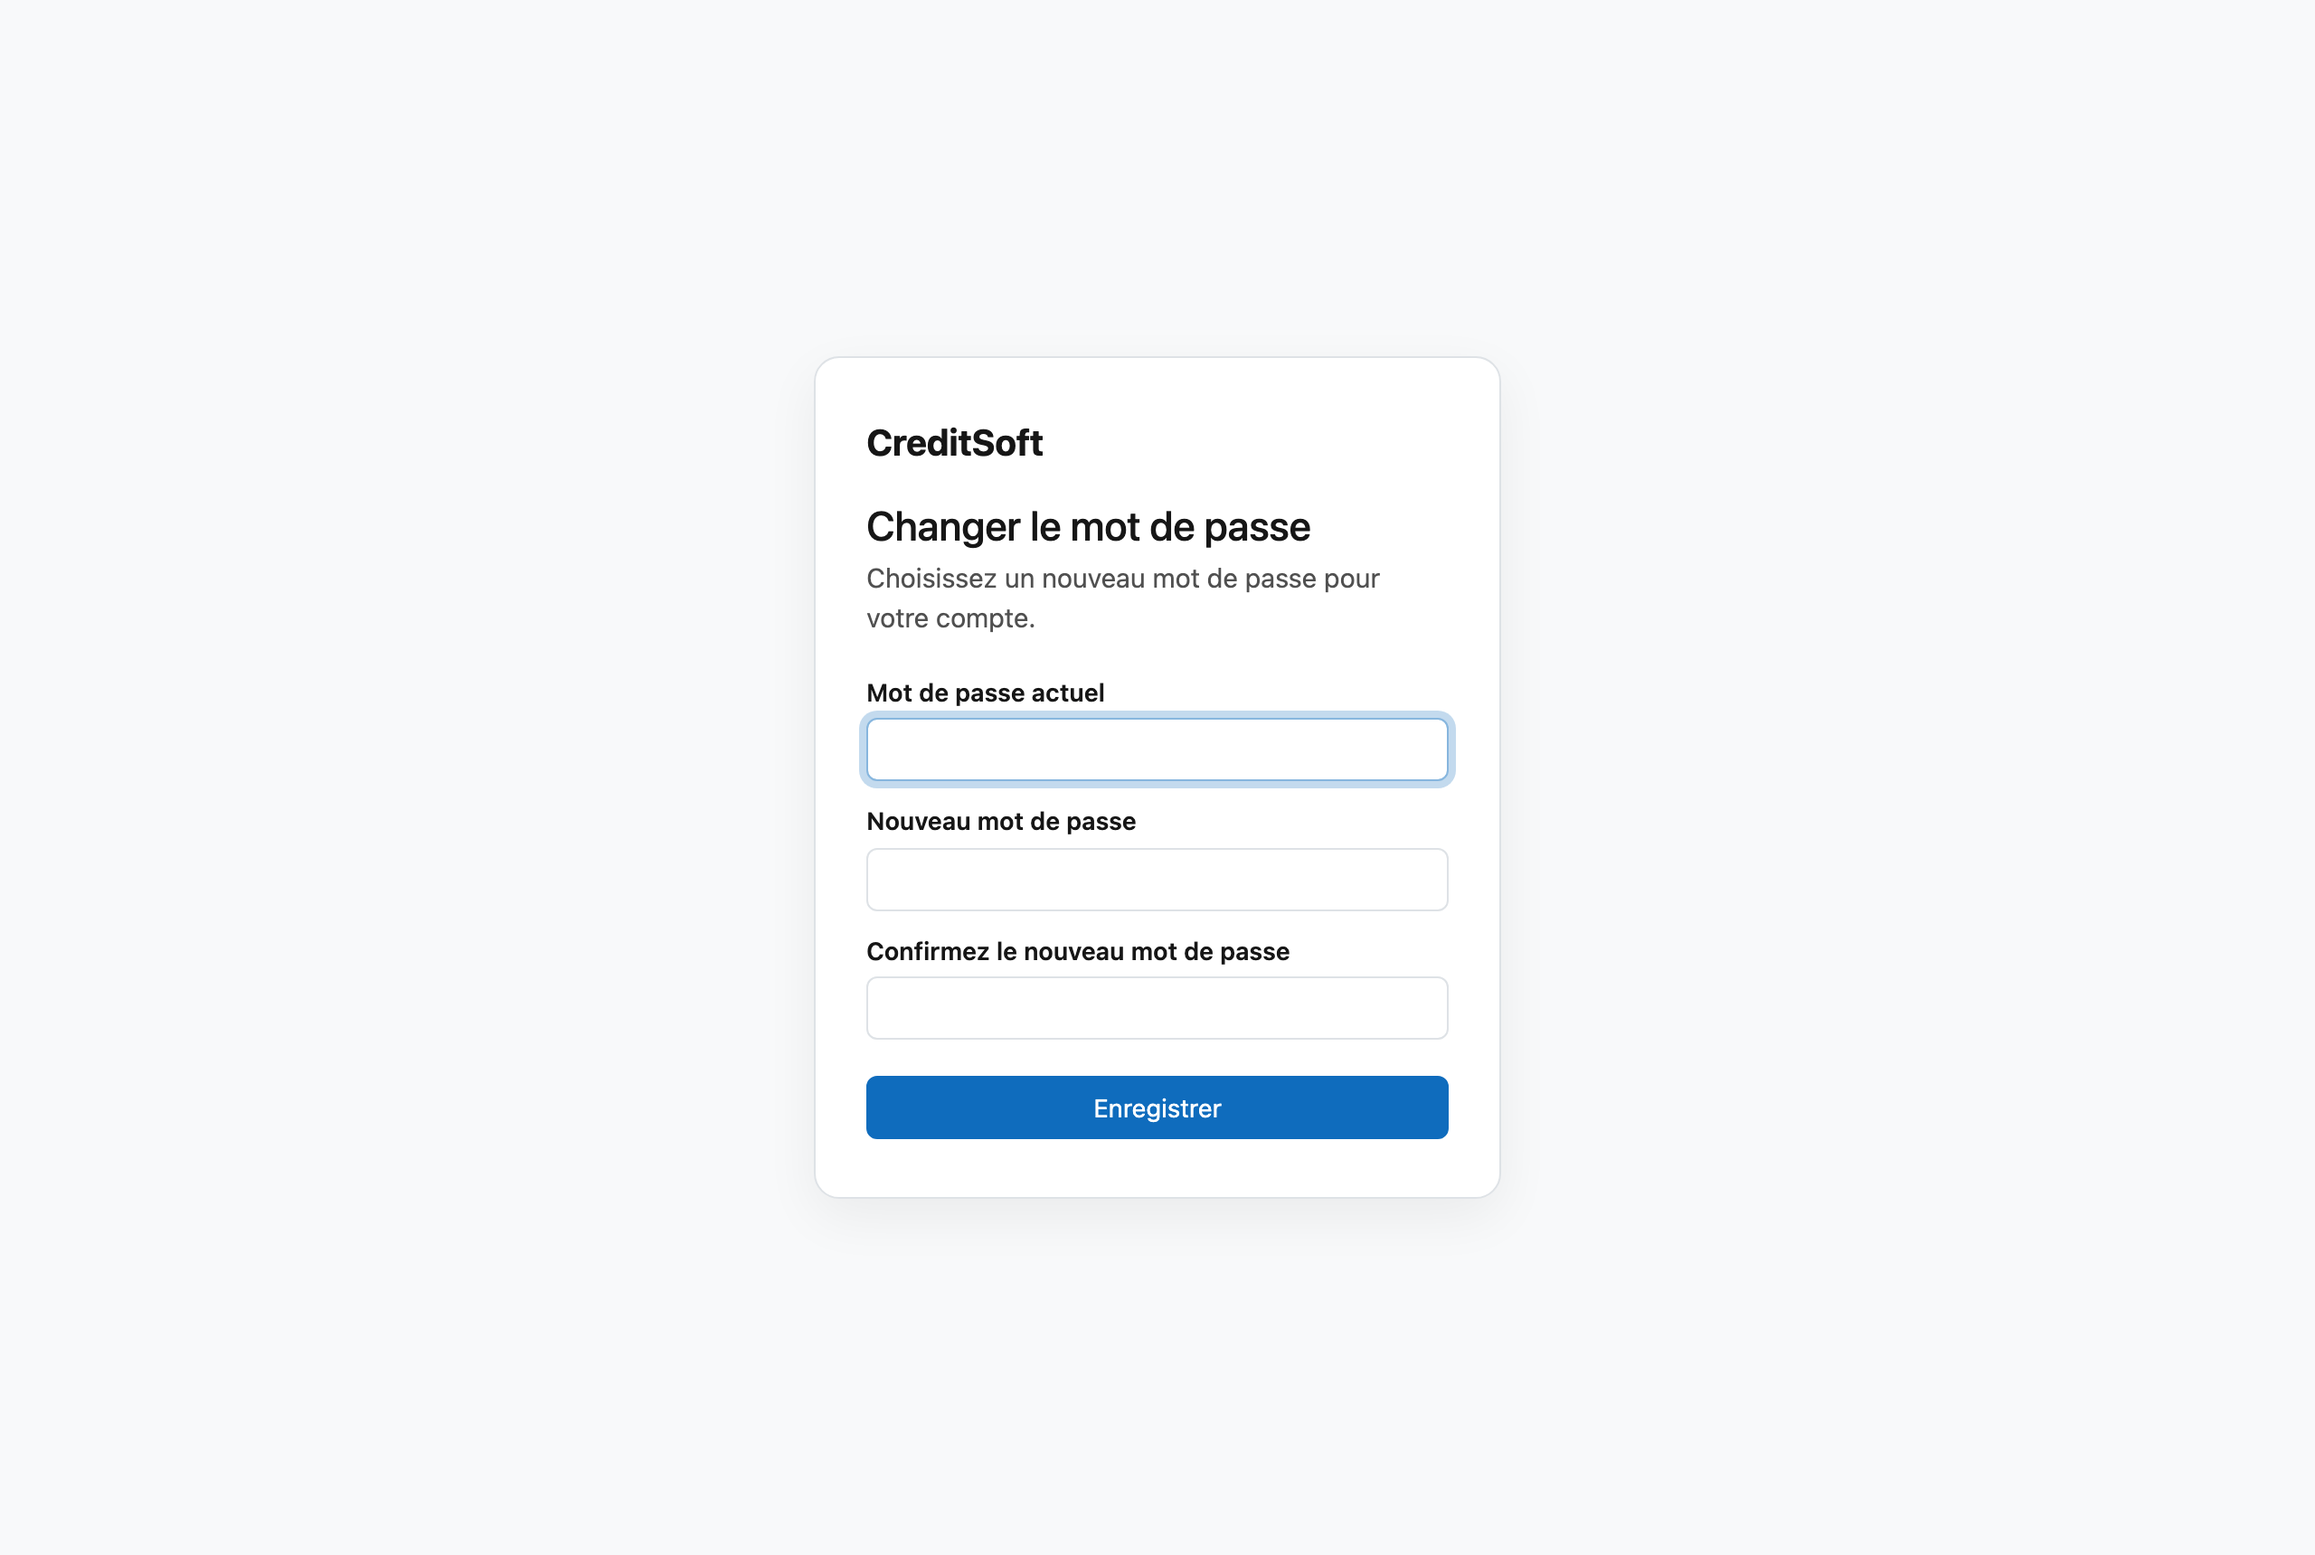
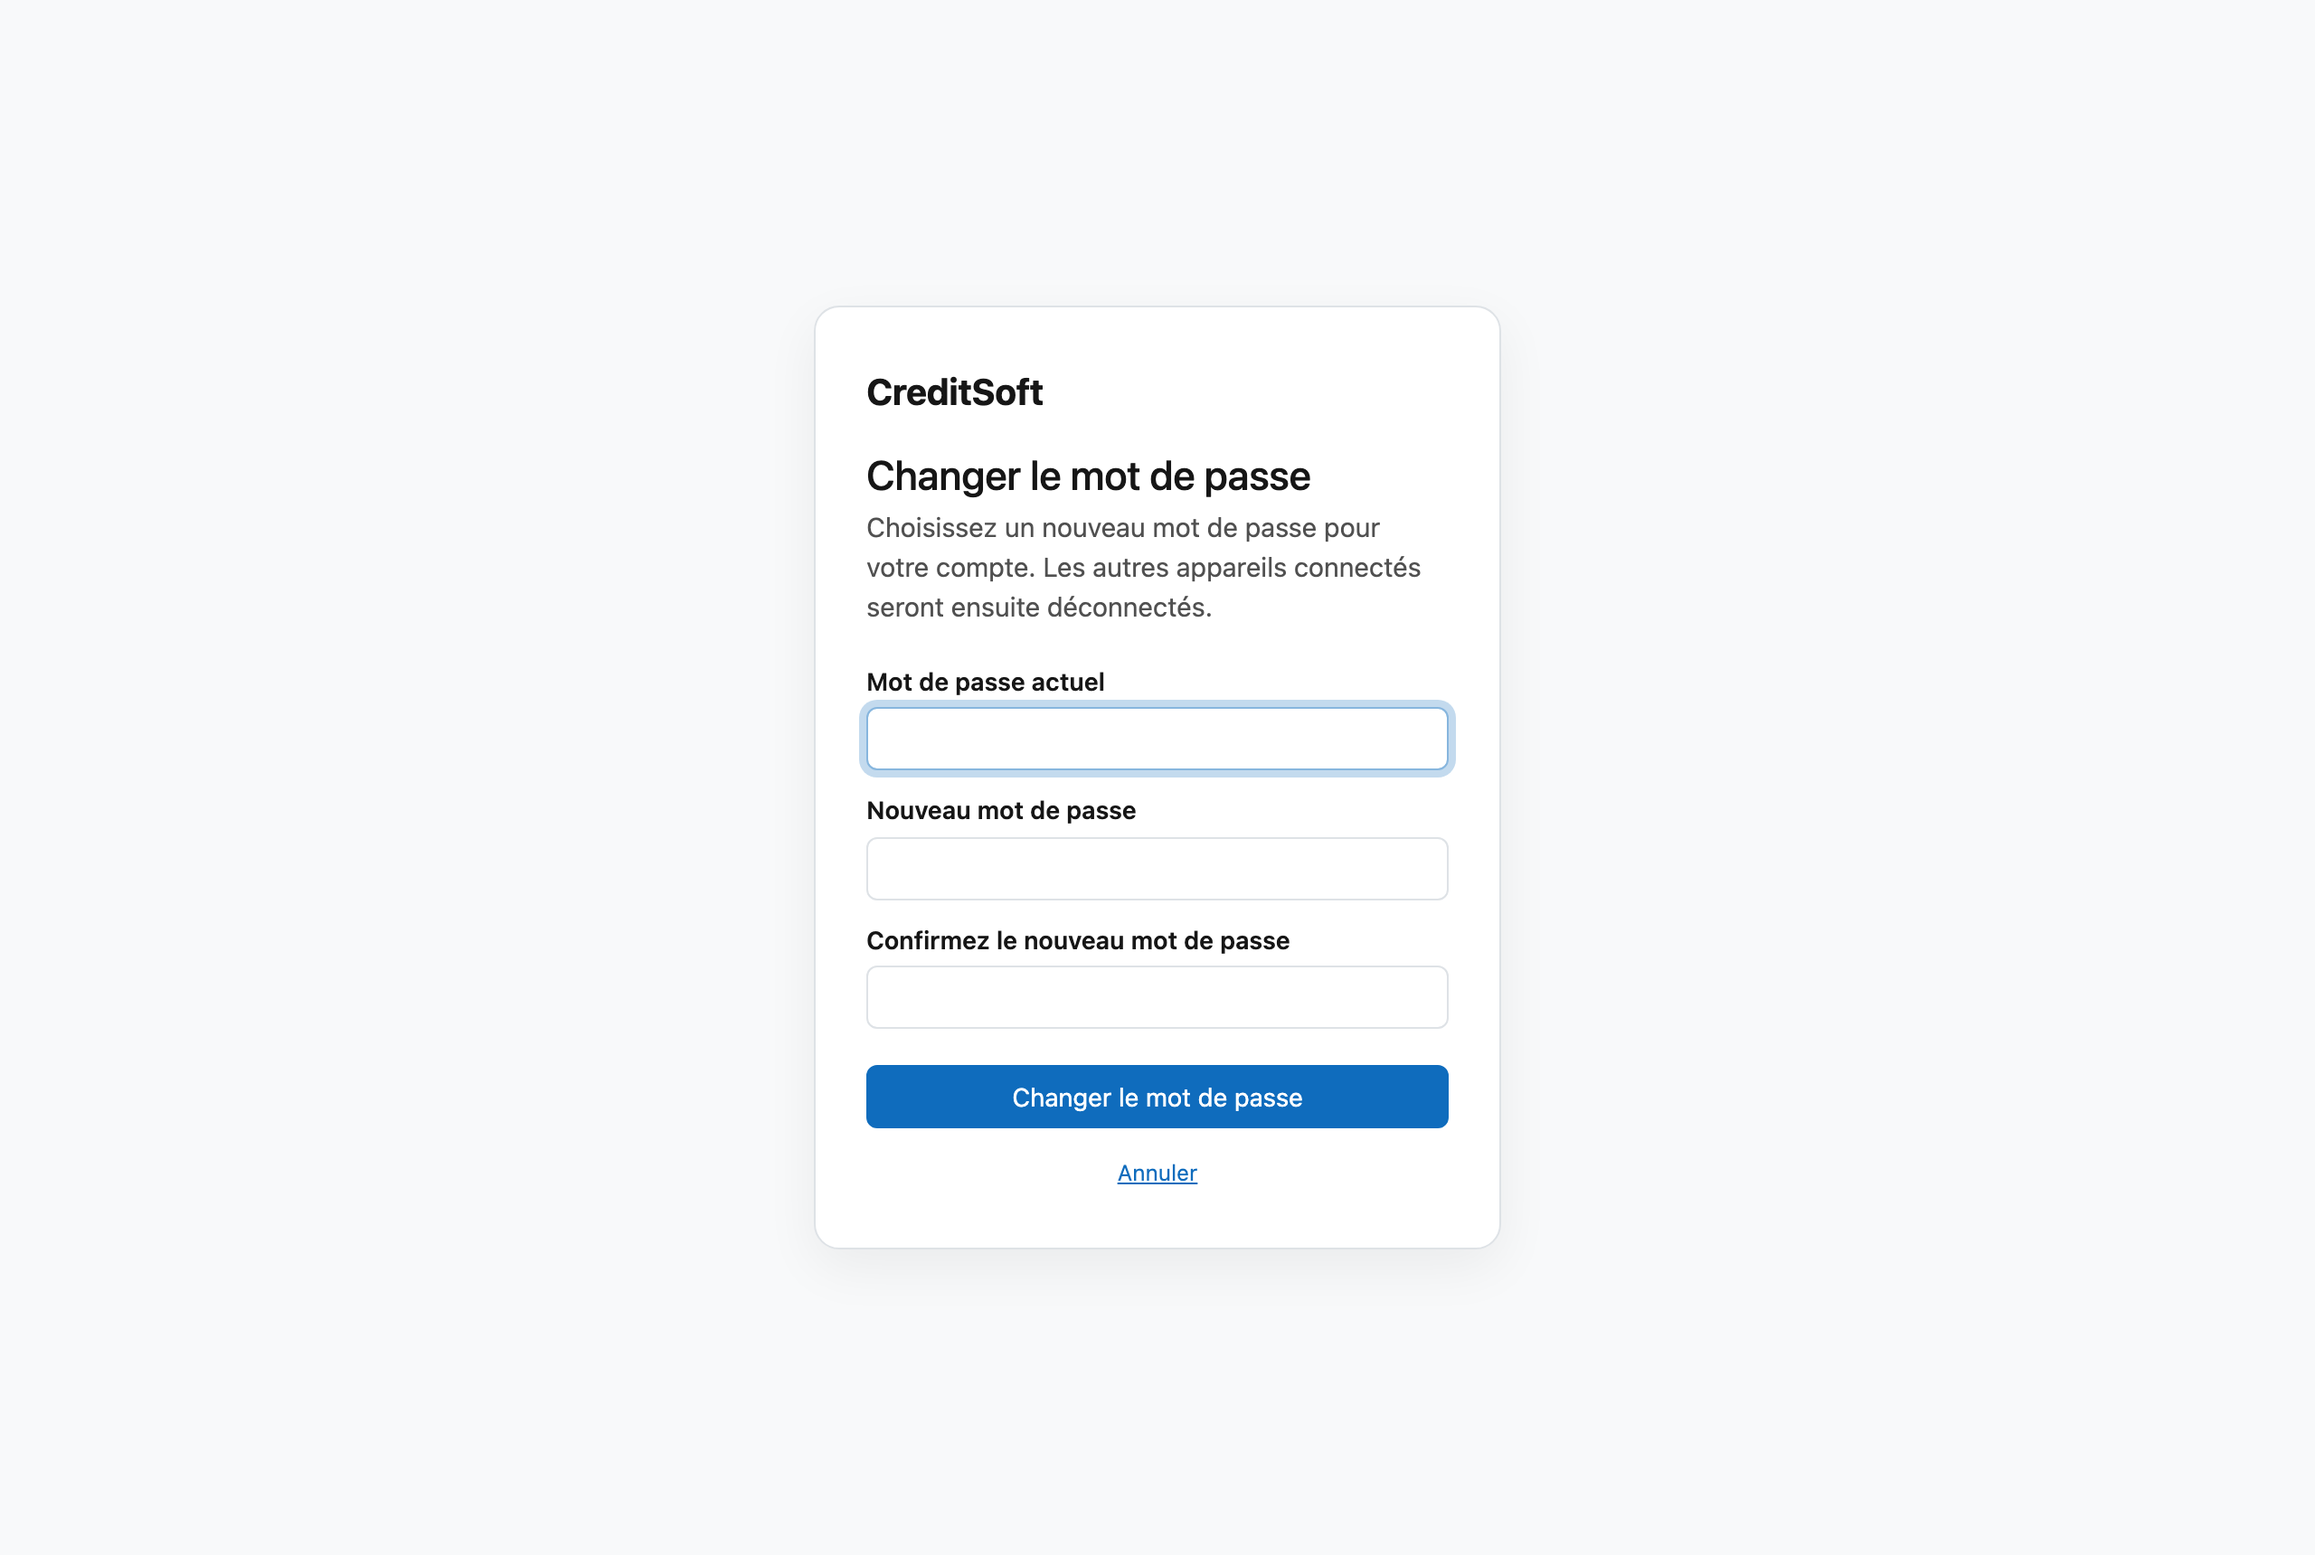
Wachtwoord wijzigen: het funderingspaneel (app 1.143.0)
NL/FR: knop heet nu "Wachtwoord wijzigen"/"Changer le mot de passe", link Annuleren, bevestiging met Verder, en
andere toestellen worden na de wijziging afgemeld. Beelden wachtwoord(-fr) hernomen op app 078c4db5.
⚠ Ronde liep in een worktree: beelden.mjs schreef de sha van de hoofdmap (15fc09e3) — met de hand rechtgezet.

diff --git a/docs/getting-started/wachtwoord.fr.md b/docs/getting-started/wachtwoord.fr.md
@@ -3,7 +3,7 @@
 Vous changez votre mot de passe sur un seul écran, comportant trois champs : votre mot de passe **actuel**, le
 **nouveau**, et ce nouveau mot de passe **une seconde fois** en confirmation.
 
-![L'écran Changer le mot de passe avec trois champs vides les uns sous les autres : Mot de passe actuel, Nouveau mot de passe et Confirmez le nouveau mot de passe, suivis du bouton Enregistrer.](../images/wachtwoord-fr.png "L'écran Changer le mot de passe")
+![L'écran Changer le mot de passe avec trois champs vides les uns sous les autres : Mot de passe actuel, Nouveau mot de passe et Confirmez le nouveau mot de passe, suivis du bouton Changer le mot de passe et du lien Annuler.](../images/wachtwoord-fr.png "L'écran Changer le mot de passe")
 
 ## Quand vous le rencontrez
 
@@ -19,6 +19,14 @@ Vous changez votre mot de passe sur un seul écran, comportant trois champs : vo
 
 Le nouveau mot de passe et sa confirmation doivent être **exactement identiques** ; s'ils diffèrent, CreditSoft
 vous le signale et rien ne change. Ressaisissez-les alors — vous ne perdez rien.
+
+Cliquez sur **Changer le mot de passe**. Si vous l'avez changé de vous-même, CreditSoft confirme que c'est fait
+et **Continuer** vous ramène à l'écran d'où vous veniez. À votre première connexion, vous poursuivez
+directement. Vous ne voulez finalement rien changer ? Cliquez sur **Annuler** — ce lien n'apparaît pas lors du
+changement obligatoire.
+
+Après la modification, les **autres appareils** sur lesquels vous êtes connecté sont déconnectés. Vous vous y
+reconnectez avec le nouveau mot de passe.
 
 !!! tip "Préférez la longueur à la complexité"
     Une phrase dont vous vous souvenez est plus sûre qu'un mot court truffé de caractères étranges. Et pour

diff --git a/docs/getting-started/wachtwoord.md b/docs/getting-started/wachtwoord.md
@@ -3,7 +3,7 @@
 Uw wachtwoord verandert u op één scherm, met drie velden: uw **huidige** wachtwoord, het **nieuwe**, en dat
 nieuwe **nog een keer** ter bevestiging.
 
-![Het scherm Wachtwoord wijzigen met drie lege velden onder elkaar: Huidig wachtwoord, Nieuw wachtwoord en Bevestig nieuw wachtwoord, met daaronder de knop Bewaren.](../images/wachtwoord.png "Het scherm Wachtwoord wijzigen")
+![Het scherm Wachtwoord wijzigen met drie lege velden onder elkaar: Huidig wachtwoord, Nieuw wachtwoord en Bevestig het nieuwe wachtwoord, met daaronder de knop Wachtwoord wijzigen en de link Annuleren.](../images/wachtwoord.png "Het scherm Wachtwoord wijzigen")
 
 ## Wanneer u het te zien krijgt
 
@@ -16,6 +16,13 @@ nieuwe **nog een keer** ter bevestiging.
 
 Het nieuwe wachtwoord en de bevestiging moeten **exact gelijk** zijn; verschillen ze, dan zegt CreditSoft dat
 en verandert er niets. Vul daarna opnieuw in — u verliest niets.
+
+Klik op **Wachtwoord wijzigen**. Wijzigde u het zelf, dan meldt CreditSoft dat het gelukt is en brengt
+**Verder** u terug naar het scherm waar u vandaan kwam. Bij uw eerste aanmelding gaat u meteen verder. Wilt u
+toch niets wijzigen, klik dan op **Annuleren** — die link staat er niet bij de verplichte wijziging.
+
+Na de wijziging worden **andere toestellen** waarop u aangemeld bent, afgemeld. Daar meldt u zich opnieuw aan
+met het nieuwe wachtwoord.
 
 !!! tip "Kies iets lang boven iets ingewikkeld"
     Een zin die u onthoudt is veiliger dan een kort woord met vreemde tekens erin. En gebruik voor CreditSoft
